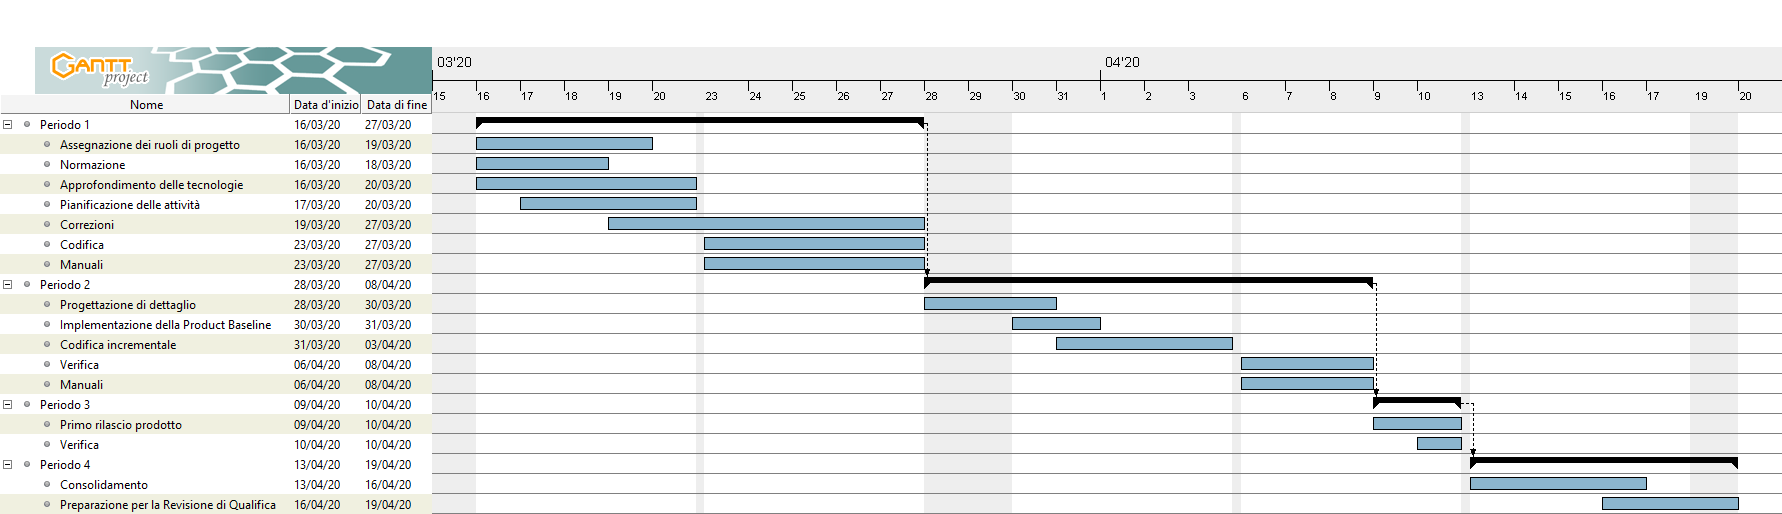
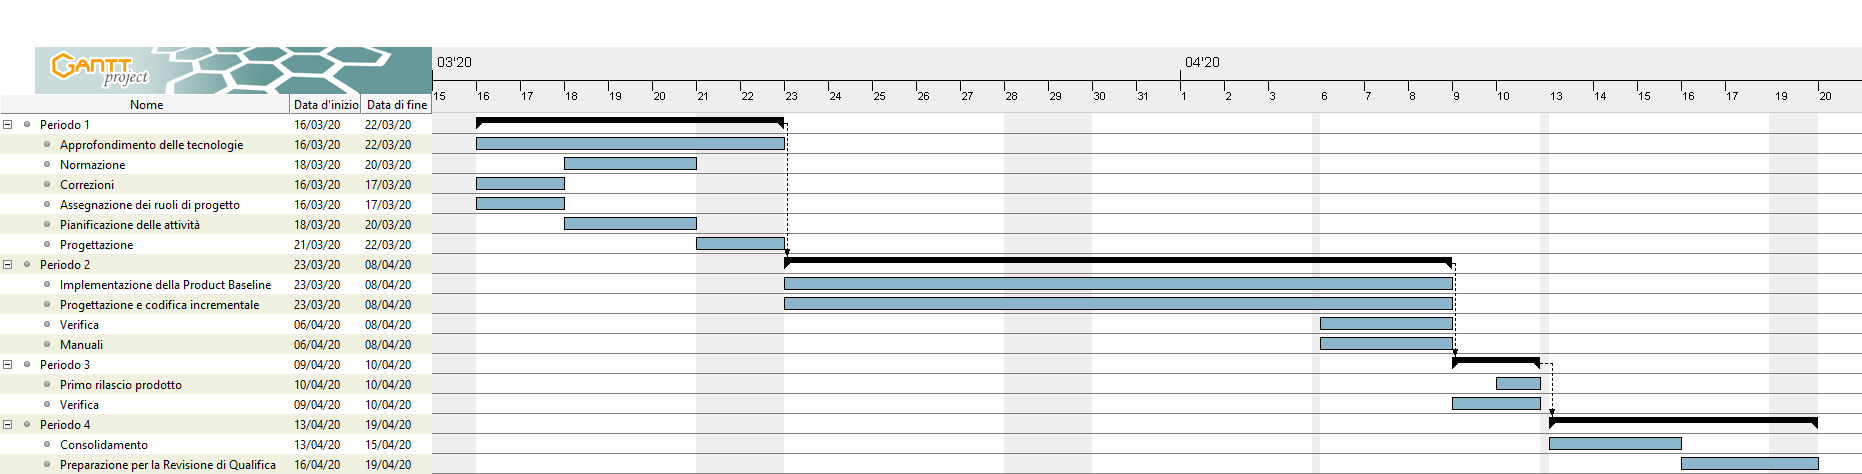
#150 aggiornato Gantt

Changed region(s): [[0.0, 0.0886, 1.0, 1.0]]

diff --git a/DocumentazioneEsterna/PianoDiProgetto/Sezioni/Sottosezioni/PianificazioneProgettazioneDettaglio.tex b/DocumentazioneEsterna/PianoDiProgetto/Sezioni/Sottosezioni/PianificazioneProgettazioneDettaglio.tex
@@ -21,7 +21,6 @@ Dal 2020-03-16 al 2020-03-22
 \subsubsection{Periodo 2} 
 Dal 2020-03-23 al 2020-04-08
 \begin{itemize}
-	\item \textbf{Progettazione di dettaglio}: A partire dalla progettazione architetturale, viene terminata la progettazione delle parti non ancora sviluppate del sistema, seguendo l'approccio indicato in §3.3;
 	\item \textbf{Implementazione della Product Baseline}: Seguendo le specifiche della \glo{Technology Baseline}, viene realizzata una prima versione stabile del prodotto, \glo{baseline} per il lavoro futuro;
 	\item \textbf{Progettazione e codifica incrementale}: Seguendo gli incrementi definiti in §3.3, i requisiti da soddisfare vengono progettati e successivamente codificati. Per ogni incremento, vengono realizzati:
 	\begin{itemize}
